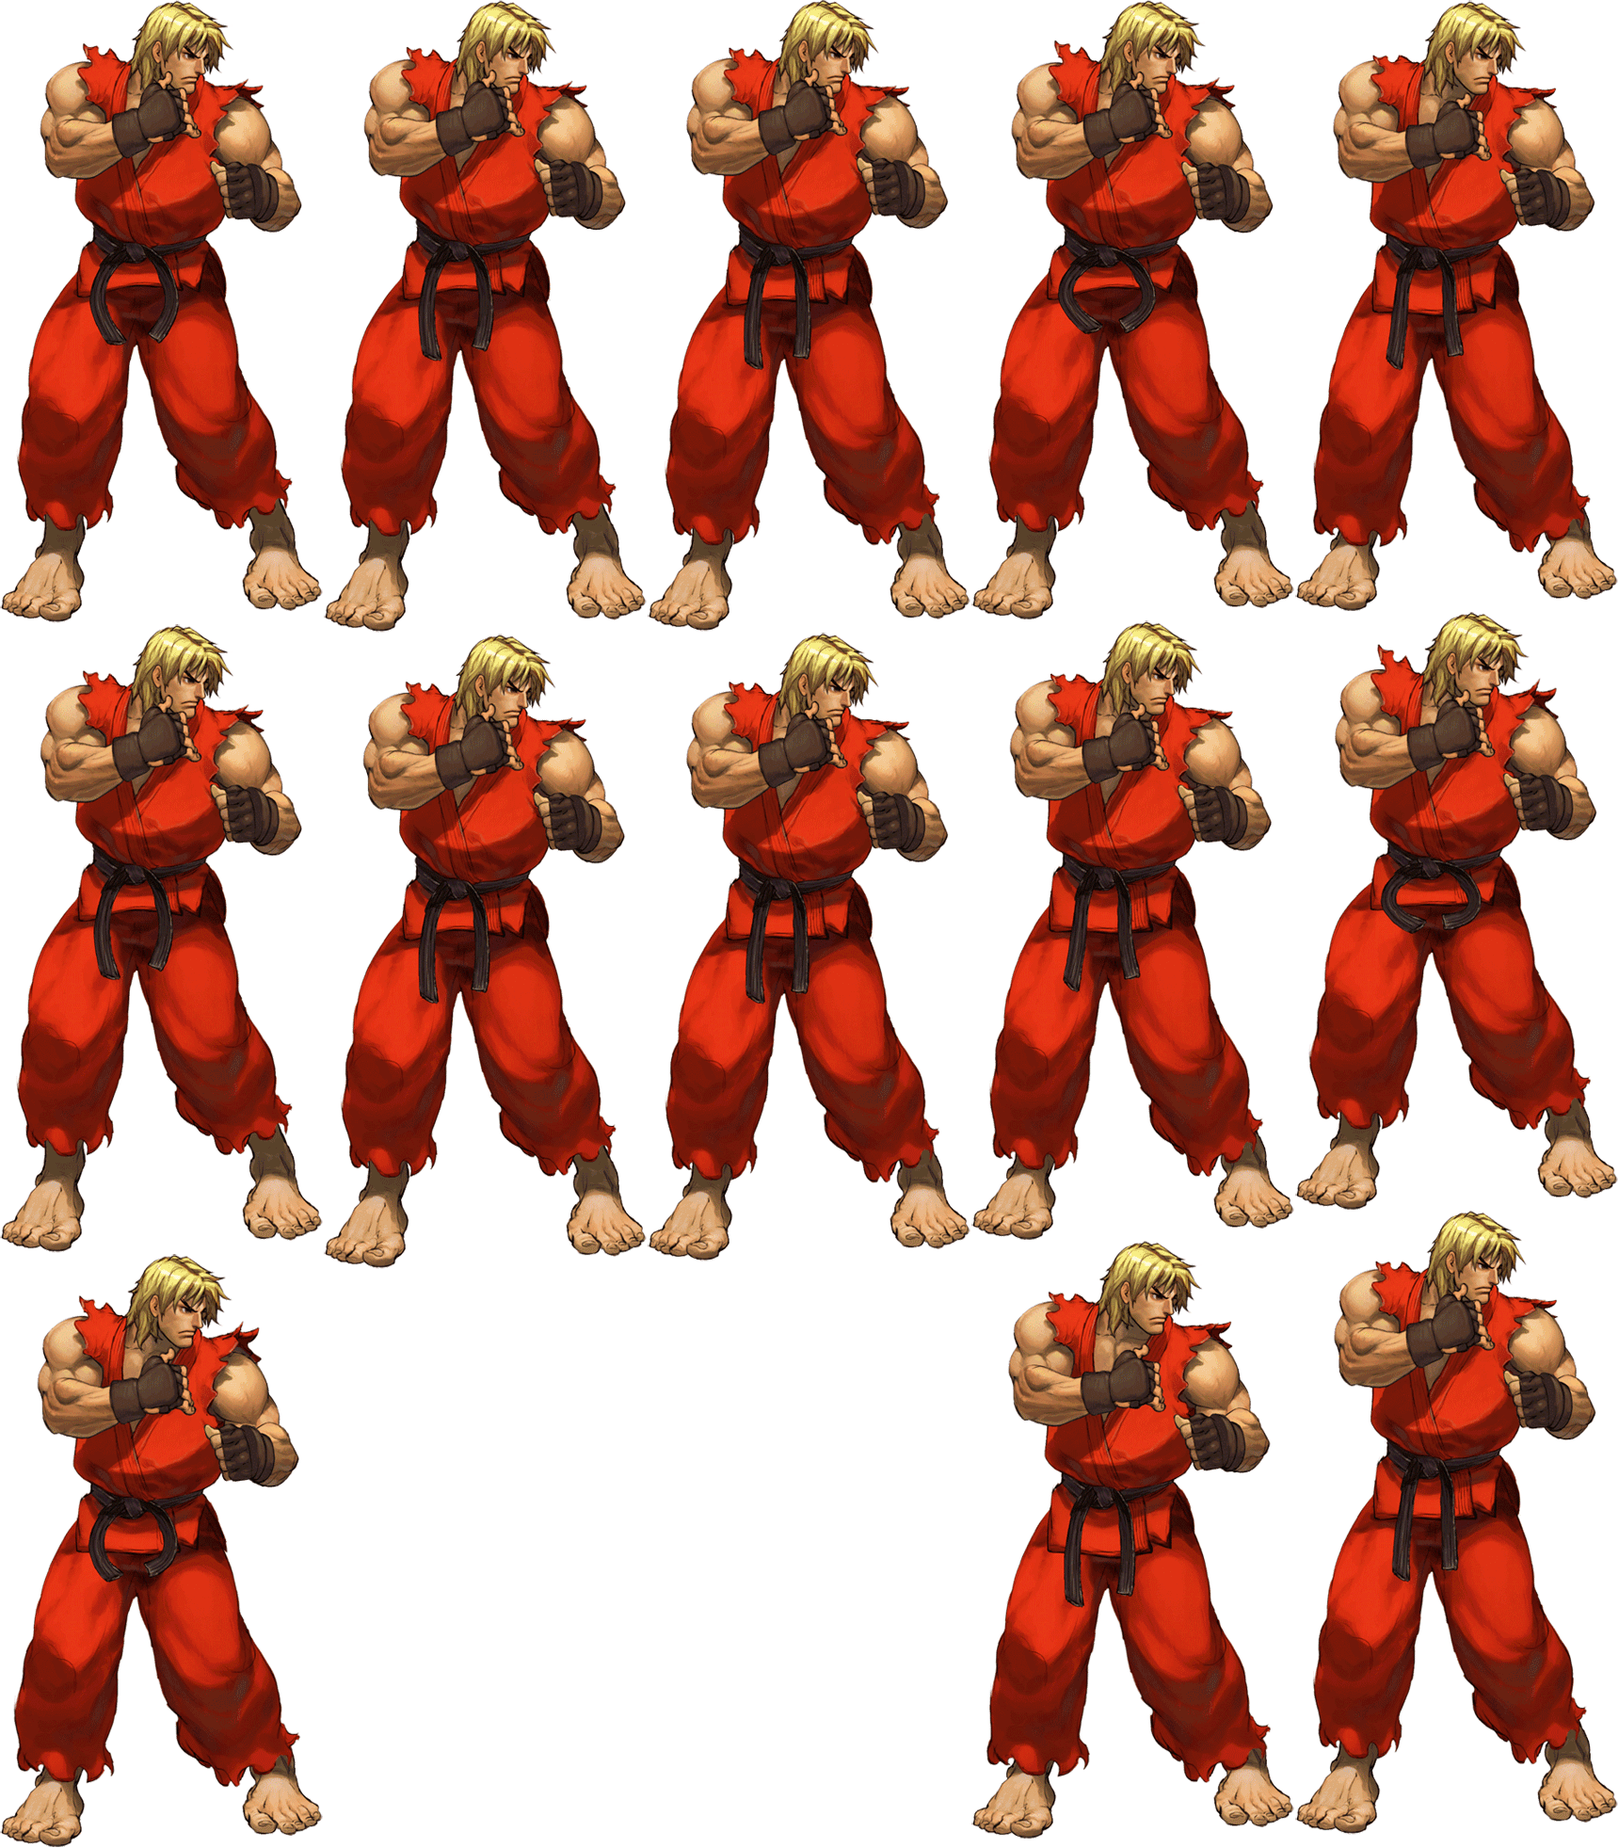
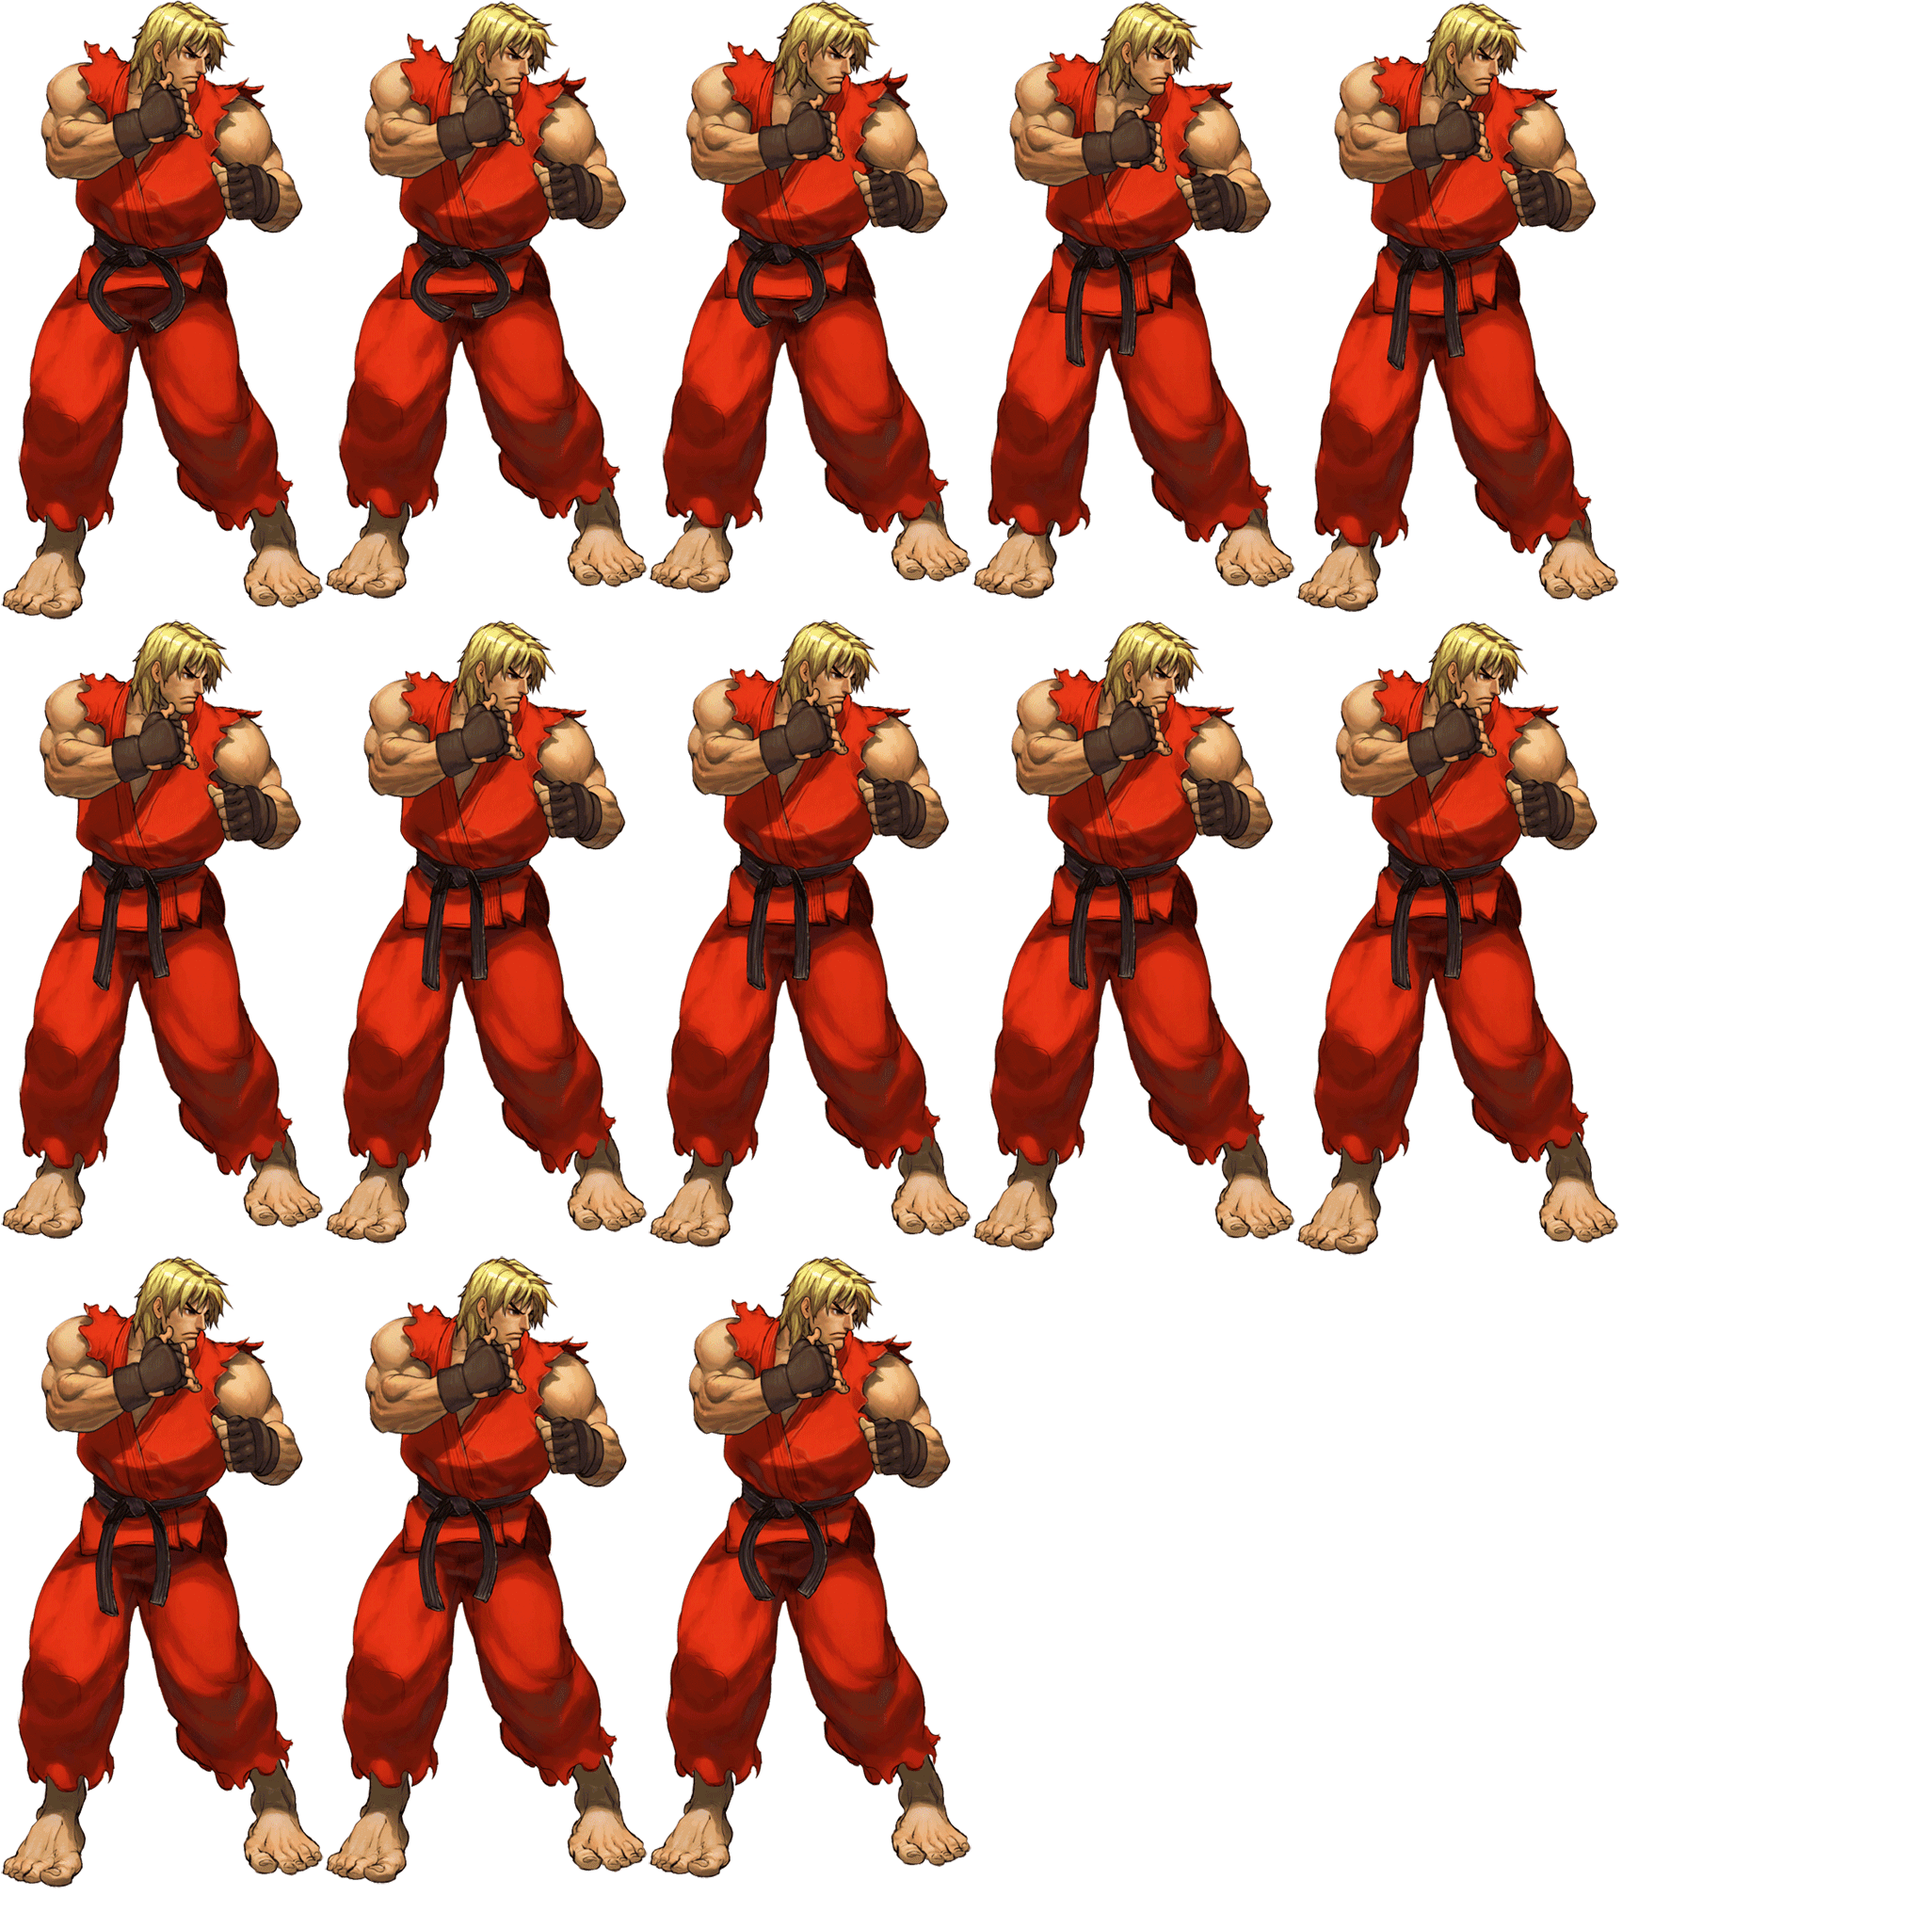
Исправлена анимация BigKen

diff --git a/version_html/bin/game.js b/version_html/bin/game.js
@@ -407,6 +407,9 @@ var StreetFighterCards;
             this.menuSprite = new Phaser.Sprite(this.game, 0, 0, Images.MenuImage);
             this.groupMenu.addChild(this.menuSprite);
             this.bigKen = new AnimationBigKen(this.game);
+            this.bigKen.scale.setTo(0.4, 0.4);
+            this.bigKen.x = 35;
+            this.bigKen.y = 225;
             this.groupMenu.addChild(this.bigKen);
             this.createButtons();
         };

diff --git a/version_html/ts/States/Menu.ts b/version_html/ts/States/Menu.ts
@@ -25,6 +25,9 @@ module StreetFighterCards {
             this.groupMenu.addChild(this.menuSprite);
 
             this.bigKen = new AnimationBigKen(this.game);
+            this.bigKen.scale.setTo(0.4, 0.4);
+            this.bigKen.x = 35;
+            this.bigKen.y = 225;
             this.groupMenu.addChild(this.bigKen);
 
             this.createButtons();
